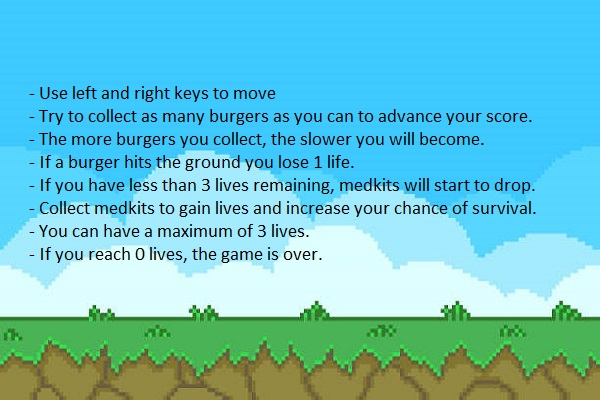
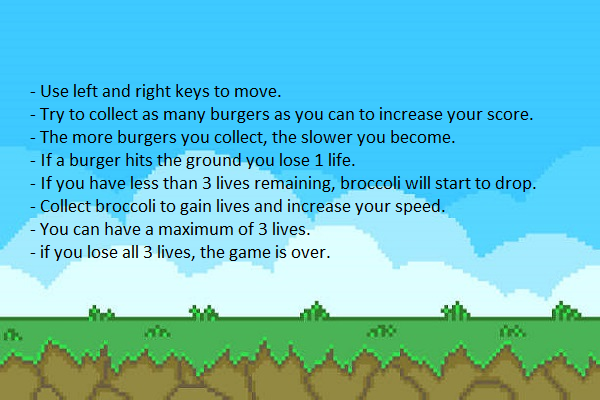
final touches on the pygame project

Changed region(s): [[0.06, 0.21, 0.9, 0.66]]

diff --git a/pygame_example/burger_rush.py b/pygame_example/burger_rush.py
@@ -5,12 +5,16 @@ import  help_screen
 pygame.init()
 '''
 Name: Basel Mabroukeh
-Date: 
-Description:
-Resources: , my dad 
+Date: 1/21/2025
+Description: This program creates a game in which there is a character. The objective of this game is to collect burgers with the character
+to increase your score. You start with three lives although you can lose a life if you let the burger hit the ground. 
+The more burgers you eat, the slower you get. You can increase your speed and your lives by collecting broccoli which appears
+when you drop a burger. If you have 0 lives remaining, the game is over.
+Resources: 
+    pygame library documentation https://www.pygame.org/docs/
+    my dad Nizar Mabroukeh, https://scholar.google.com/scholar?hl=en&as_sdt=0%2C5&q=nizar+mabroukeh&btnG=
+    Stack overflow, https://stackoverflow.com/ 
 '''
-# TODO: add sound to when burger, medkit, and garbage are collected and when you lose a life
-# TODO: go over the comments and write the description and date for program
 def main():
 
     #this creates a window 600 pixels wide by 400 pixels high
@@ -46,7 +50,7 @@ def main():
                if 350 > mouse[0] > 200 and 175 > mouse[1] > 125:
                    game_screen.game()
                    sys.exit()
-               #if you click help button, it goes to the game
+               #if you click help button, it goes to the help screen
                if 350 > mouse[0] > 200 and 275 > mouse[1] > 225:
                    help_screen.help()
                    sys.exit()
@@ -62,7 +66,7 @@ def main():
                if 575 > mouse[0] > 425 and 410 > mouse[1] > 310:
                    pygame.mixer.music.pause()
                    
-        #if you hover over the play button it turns green, otherwise it is grey
+        #if you hover over the play button it turns light blue, otherwise it is grey
         if 350 > mouse[0] > 200 and 175 > mouse[1] > 125:
             play_button = pygame.draw.rect(window, (141, 183, 247), [200, 125, 150, 50])
             font2 = pygame.font.SysFont("Times New Roman", 30)
@@ -72,7 +76,7 @@ def main():
             font2 = pygame.font.SysFont("Times New Roman", 30)
             text2 = font2.render("Play", True, (235, 12, 45))
 
-        #if you hover over the help button it turns green, otherwise it is grey
+        #if you hover over the help button it turns light blue, otherwise it is grey
         if 350 > mouse[0] > 200 and 275 > mouse[1] > 225:
             change_title = pygame.draw.rect(window,(141, 183, 247) , [200, 225, 150, 50])
             font3 = pygame.font.SysFont("Times New Roman", 30)
@@ -82,7 +86,7 @@ def main():
             font3 = pygame.font.SysFont("Times New Roman", 30)
             text3 = font3.render("Help", True, (235, 12, 45))
 
-        #if you hover over the quit button it turns green, otherwise it is grey
+        #if you hover over the quit button it turns light blue, otherwise it is grey
         if 350 > mouse[0] > 200 and 375 > mouse[1] > 325:
             quit_button = pygame.draw.rect(window, (141, 183, 247), [200, 325, 150, 50])
             font4 = pygame.font.SysFont("Times New Roman", 30)
@@ -92,7 +96,7 @@ def main():
             font4 = pygame.font.SysFont("Times New Roman", 30)
             text4 = font4.render("Quit", True, (235, 12, 45))
 
-        #if you hover over the play button it turns green, otherwise it is grey
+        #if you hover over the play music button it turns light blue, otherwise it is grey
         if 575 > mouse[0] > 425 and 300 > mouse[1] > 250:
             play_button = pygame.draw.rect(window, (141, 183, 247), [425, 250, 150, 50])
             font5 = pygame.font.SysFont("Times New Roman", 30)
@@ -102,7 +106,7 @@ def main():
             font5 = pygame.font.SysFont("Times New Roman", 30)
             text5 = font5.render("Play Music", True, (235, 12, 45))
 
-        #if you hover over the pause button it turns green, otherwise it is grey
+        #if you hover over the pause music button it turns light blue, otherwise it is grey
         if 575 > mouse[0] > 425 and 410 > mouse[1] > 310:
             pause_button = pygame.draw.rect(window, (141, 183, 247), [425, 310, 150, 50])
             font6 = pygame.font.SysFont("Times New Roman", 28)

diff --git a/pygame_example/game_screen.py b/pygame_example/game_screen.py
@@ -5,6 +5,7 @@ clock = pygame.time.Clock()
 import random
 
 def game():
+    #creates counters to keep track of certain factors of the game
     burger_counter = 0
     score_counter = 0
     life_counter = 3
@@ -30,7 +31,7 @@ def game():
     y2 = 0
     x2 = random.randint(30, 570)
 
-    #loads the burger and medkit image 
+    #loads the burger and broccoli image 
     broccoli = pygame.image.load("pygame_example/broccoli_scaled_nobkg.png")
     burger = pygame.image.load("pygame_example/burger.png")
     
@@ -51,11 +52,11 @@ def game():
         text1 = font1.render("Lives: "+ str(life_counter), True, (36, 38, 37), (255, 155, 255))
         window1.blit(text1,(485, 5))
 
-        #gets the rectangle around the fat, burger, and medkit
+        #gets the rectangle around the fat, burger, and broccoli
         fatguy_surface = pygame.Rect(x+10, y, fatguy.get_width()-30, fatguy.get_height())
         burger_surface = pygame.Rect(x1, y1, burger.get_width(), burger.get_height())
         broccoli_surface = pygame.Rect(x2, y2, broccoli.get_width(), broccoli.get_height())
-        #returns true if the 2 rectangles overlap with each other
+        #returns true if the 2 rectangles overlap with each other and decreases the speed of the character if 5 burgers are collected
         if fatguy_surface.colliderect(burger_surface):
             y1 = 0
             x1 = random.randint(30, 570)
@@ -65,6 +66,7 @@ def game():
             else:
                 burger_counter = 0
                 character_speed -= 1 
+        #returns true if the 2 rectangles overlap with each other and increases the speed of the character if 1 broccoli is collected
         if fatguy_surface.colliderect(broccoli_surface):
             y2 = 0
             x2 = random.randint(30, 570)
@@ -156,7 +158,7 @@ def game():
         if life_counter < 3: 
             window1.blit(broccoli, (x2, y2))
         else:
-            y2 = 0  # do magic to make broccoli disapeear
+            y2 = 0  # makes the broccoli not appear when it shouldn't
         pygame.display.flip()
         clock.tick(60)
 game()

diff --git a/pygame_example/game_over.py b/pygame_example/game_over.py
@@ -56,7 +56,7 @@ def main(score: int):
                         pygame.quit()
                         sys.exit()
                         
-            #if you hover over the play button it turns green, otherwise it is grey
+            #if you hover over the play button it turns light blue, otherwise it is grey
             if 350 > mouse[0] > 200 and 175 > mouse[1] > 125:
                 play_button = pygame.draw.rect(window2, (141, 183, 247), [200, 125, 150, 50])
                 font2 = pygame.font.SysFont("Times New Roman", 30)
@@ -66,7 +66,7 @@ def main(score: int):
                 font2 = pygame.font.SysFont("Times New Roman", 30)
                 text2 = font2.render("Play Again", True, (235, 12, 45))
 
-            #if you hover over the main menu button it turns green, otherwise it is grey
+            #if you hover over the main menu button it turns light blue, otherwise it is grey
             if 350 > mouse[0] > 200 and 275 > mouse[1] > 225:
                 change_title = pygame.draw.rect(window2,(141, 183, 247) , [200, 225, 150, 50])
                 font3 = pygame.font.SysFont("Times New Roman", 30)
@@ -76,7 +76,7 @@ def main(score: int):
                 font3 = pygame.font.SysFont("Times New Roman", 30)
                 text3 = font3.render("Main Menu", True, (235, 12, 45))
 
-            #if you hover over the quit button it turns green, otherwise it is grey
+            #if you hover over the quit button it turns light blue, otherwise it is grey
             if 350 > mouse[0] > 200 and 375 > mouse[1] > 325:
                 quit_button = pygame.draw.rect(window2, (141, 183, 247), [200, 325, 150, 50])
                 font4 = pygame.font.SysFont("Times New Roman", 30)
@@ -86,6 +86,7 @@ def main(score: int):
                 font4 = pygame.font.SysFont("Times New Roman", 30)
                 text4 = font4.render("Quit", True, (235, 12, 45))
             
+            #prints everything to the window
             window2.blit(text2, (210, 135))
             window2.blit(text3, (205, 235))
             window2.blit(text4, (250, 335))

diff --git a/pygame_example/help_screen.py b/pygame_example/help_screen.py
@@ -16,6 +16,7 @@ def help():
     bg = pygame.image.load("pygame_example/help_bkg.jpg")
     window2.blit(bg, (0, 0))
 
+    #creates the title for the window
     font1 = pygame.font.SysFont("Arial", 60, bold=True)
     text1 = font1.render("How To Play", True, (36, 38, 37))
     window2.blit(text1,(130, 5))
@@ -48,7 +49,7 @@ def help():
             font3 = pygame.font.SysFont("Times New Roman", 30)
             text3 = font3.render("Back", True, (235, 12, 45))
 
-        #if you hover over the quit button it turns green, otherwise it is grey
+        #if you hover over the quit button it turns light blue, otherwise it is grey
         if 575 > mouse[0] > 425 and 375 > mouse[1] > 325:
             quit_button = pygame.draw.rect(window2, (141, 183, 247), [425, 325, 150, 50])
             font4 = pygame.font.SysFont("Times New Roman", 30)
@@ -58,7 +59,7 @@ def help():
             font4 = pygame.font.SysFont("Times New Roman", 30)
             text4 = font4.render("Quit", True, (235, 12, 45))
         
-
+        #prints everything to the window
         window2.blit(text3, (65, 330))
         window2.blit(text4, (475, 330))
         pygame.display.flip()

diff --git a/games/RPS.py b/games/RPS.py
@@ -1,7 +1,7 @@
 '''
 11/21/2024
 Basel Mabroukeh
-This is a rock, paper, scissors, game program that asks the user if the want to play against the computer or if they want to play
+This is a rock, paper, scissors, game program that asks the user if they want to play against the computer or if they want to play
 against another player. It then aks the user to input 1 for rock, 2 for paper, and 3 for scissors and then compares the player's answer
 to the computer or other player's answer and determines who the winner is while printing out both of the player's information.
 '''

diff --git a/pygame_example/__init__.py b/pygame_example/__init__.py
@@ -1,0 +1,1 @@
+#this is an empty init file
